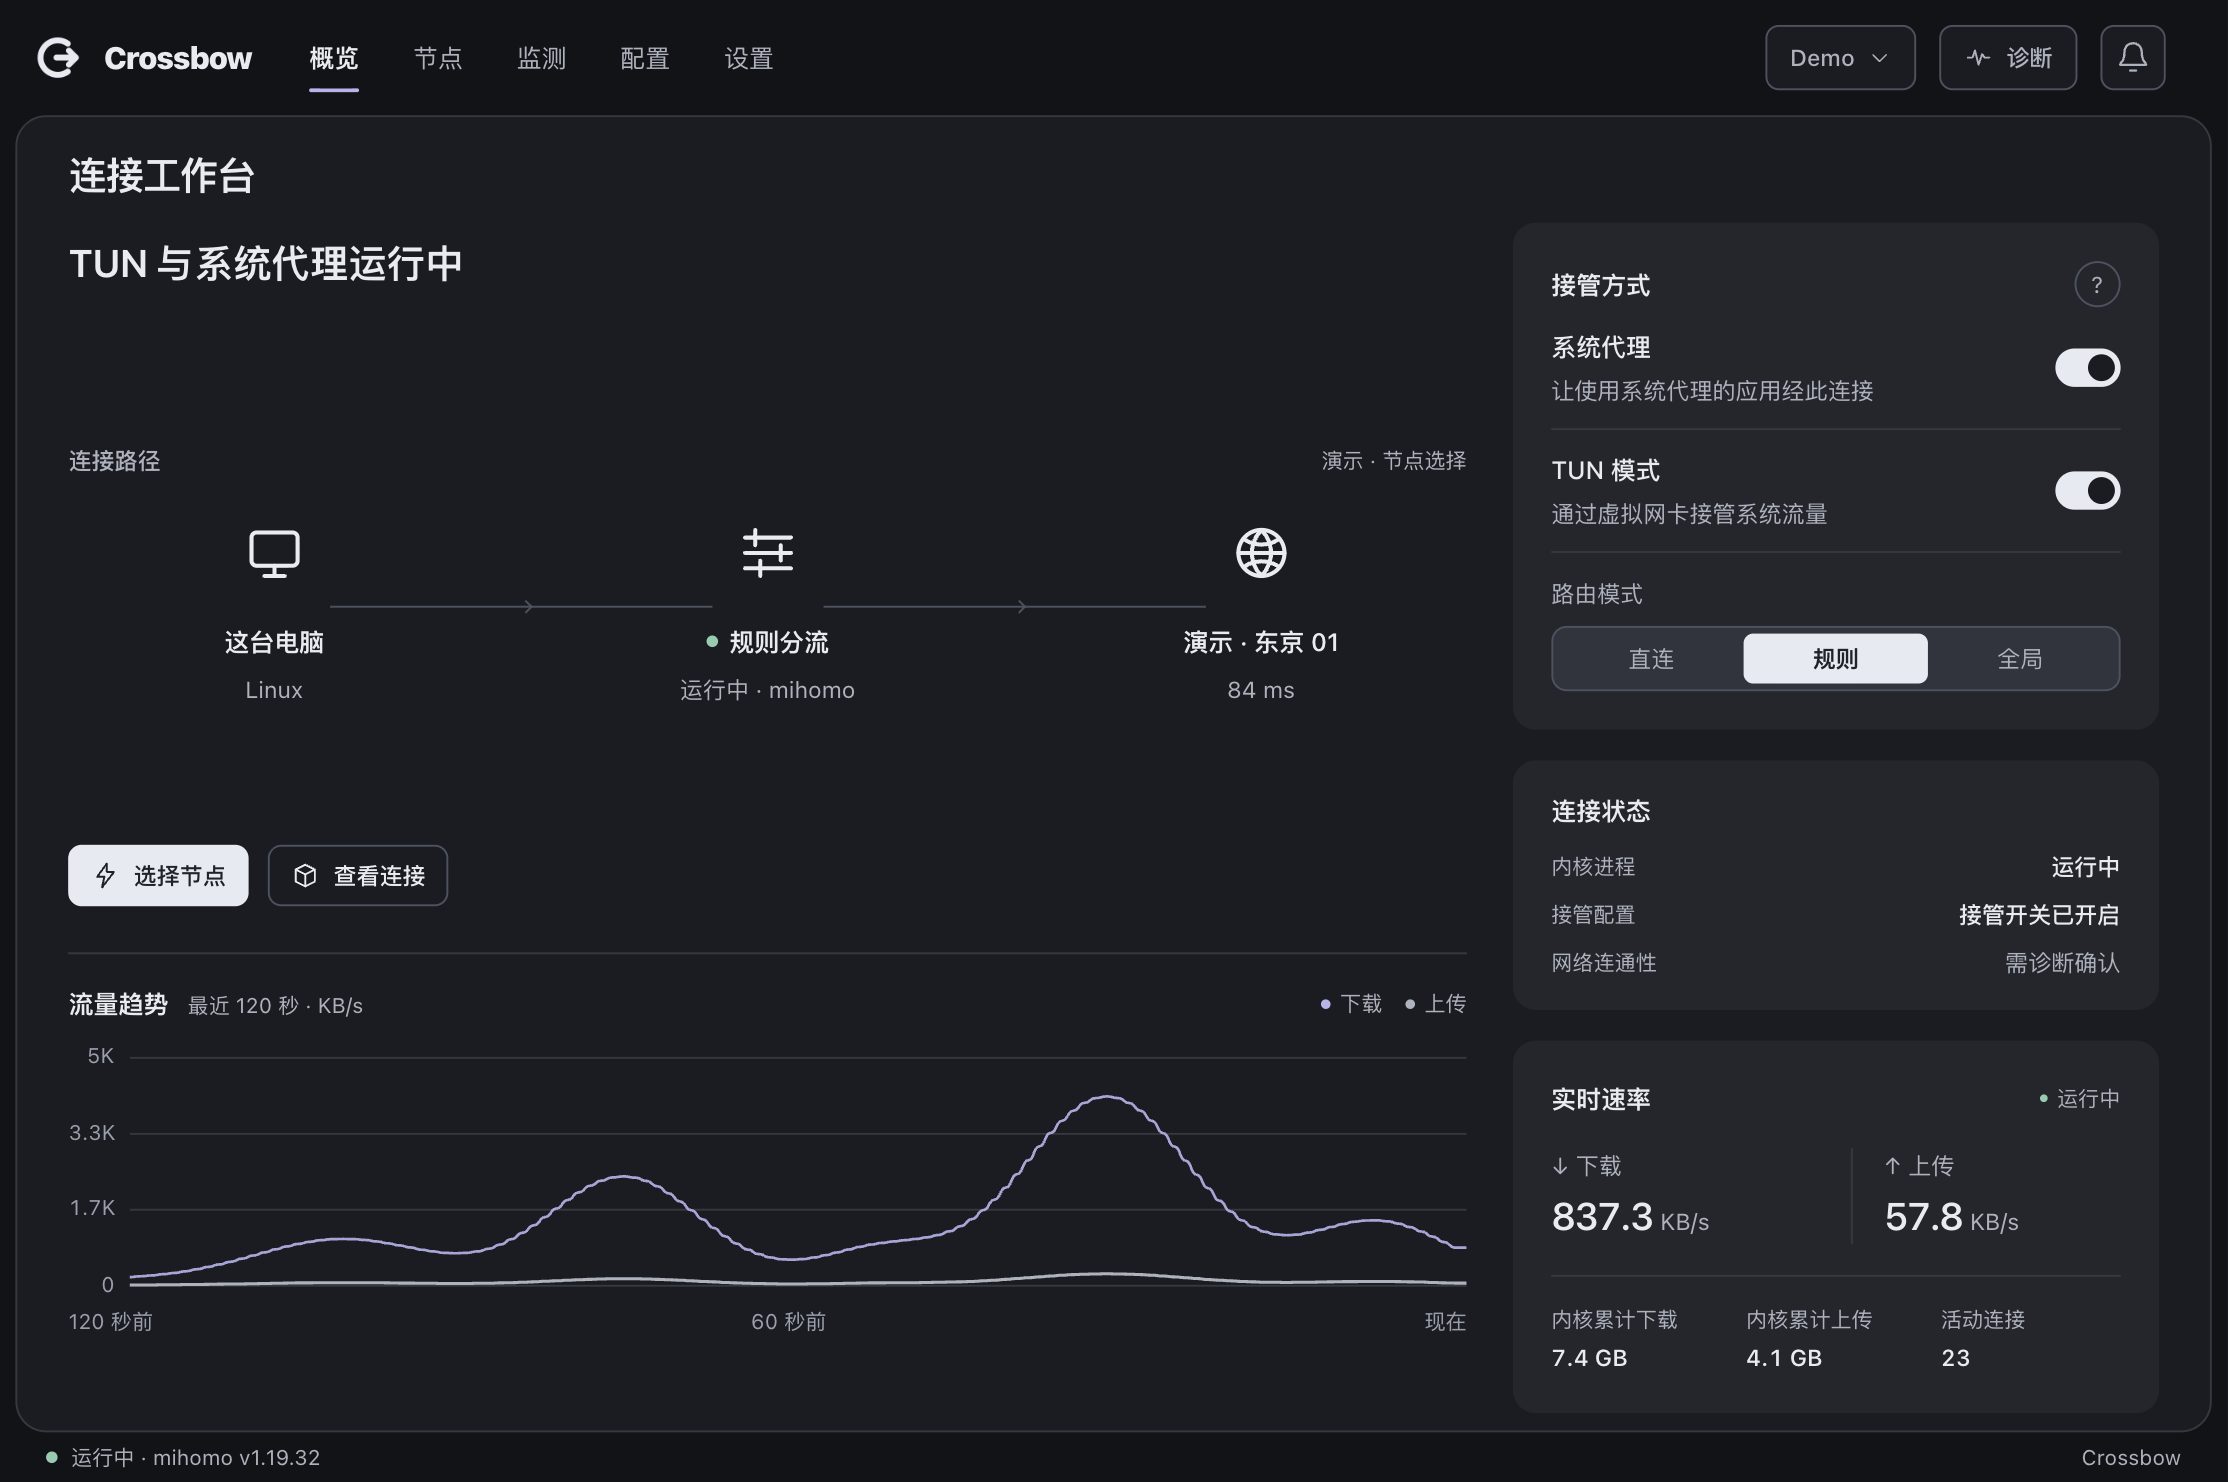
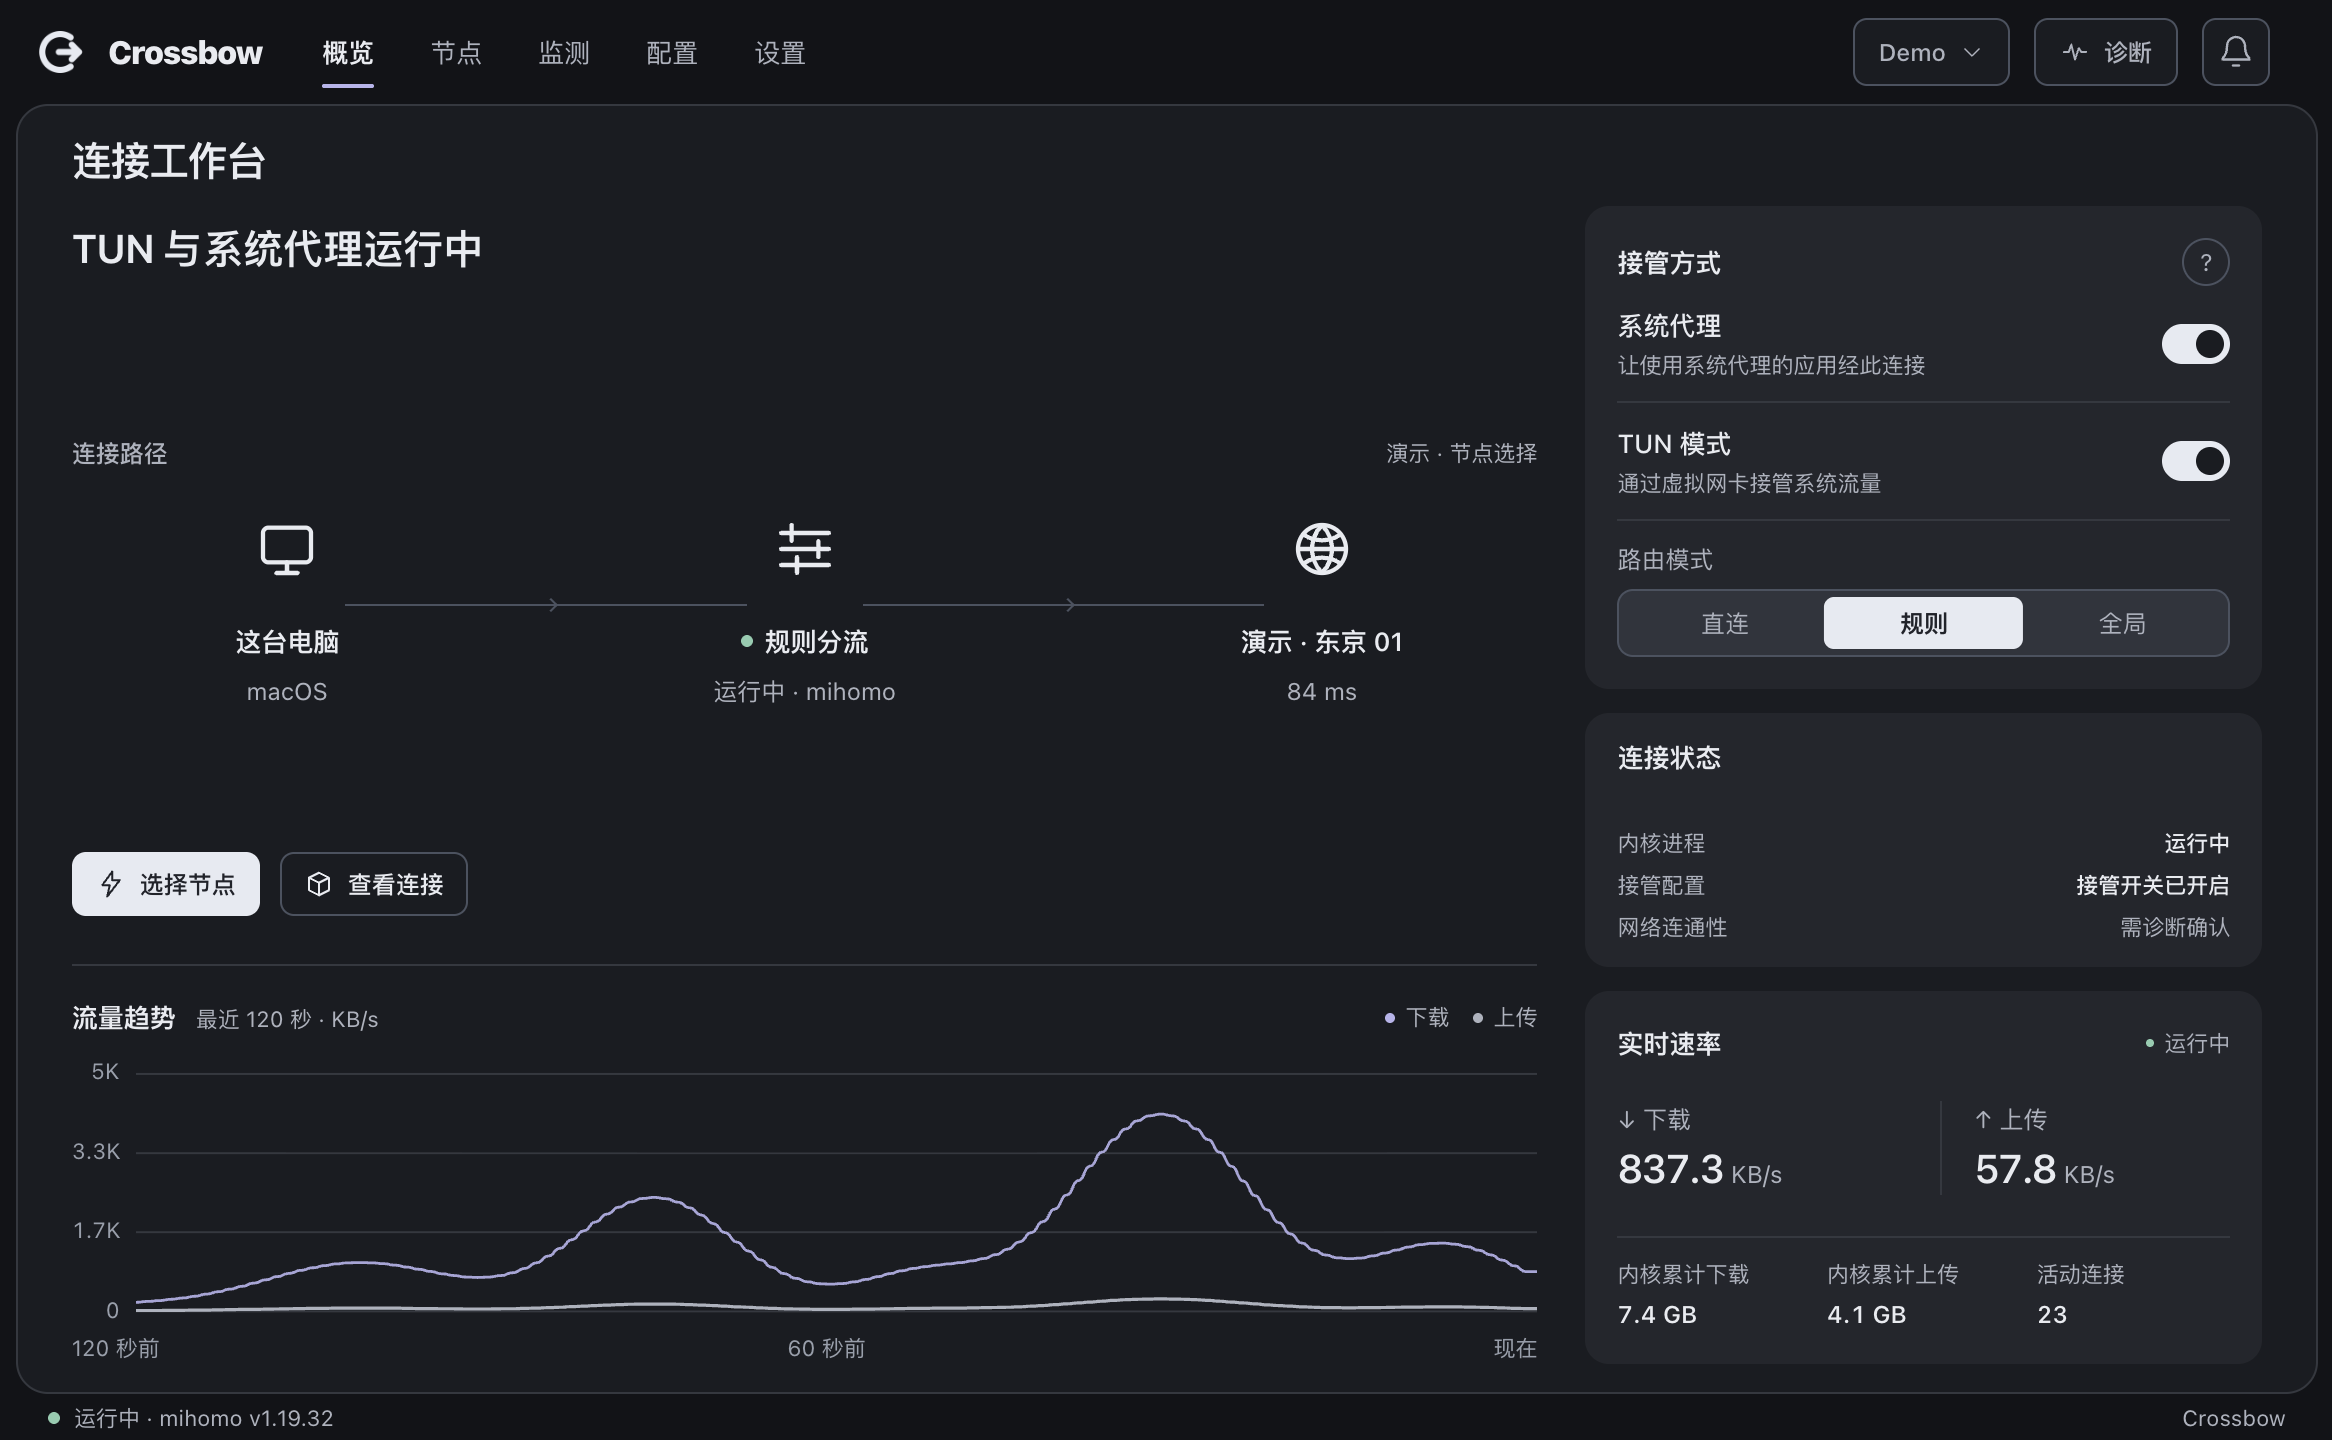
fix(site): refresh hero captures, widen to shell width
- 素材更新为用户重截的四变体（2332×1440 @2x，设备标签 macOS）
- hero-shot 宽度 min(770px) → min(1320px)：与 .shell 正文同宽，
  此前竖版素材缩小后观感偏小
- 预览 stub（hero 模式）锁定 macOS UA，避免响应式模式把
  「这台电脑」副行渲染成 Linux

Closes #678

diff --git a/apps/site/src/site.css b/apps/site/src/site.css
@@ -96,7 +96,7 @@ main:focus { outline: none; }
 .hero-intro p { max-width: 840px; margin-inline: auto; margin-top: 20px; color: var(--dim); font-size: 16px; line-height: 1.8; }
 .mobile-break { display: none; }
 /* 首屏真实界面截图：随站点评级联动切换深浅版本 */
-.hero-shot { width: min(770px, 100%); margin: 56px auto 48px; border: 1px solid var(--line-strong); border-radius: 12px; overflow: hidden; background: var(--surface); box-shadow: 0 24px 64px color-mix(in srgb, var(--accent) 16%, transparent); }
+.hero-shot { width: min(1320px, 100%); margin: 56px auto 48px; border: 1px solid var(--line-strong); border-radius: 12px; overflow: hidden; background: var(--surface); box-shadow: 0 24px 64px color-mix(in srgb, var(--accent) 16%, transparent); }
 .hero-shot img { display: block; width: 100%; height: auto; }
 [data-theme="light"] .hero-shot img.shot-dark { display: none; }
 [data-theme="dark"] .hero-shot img.shot-light { display: none; }
